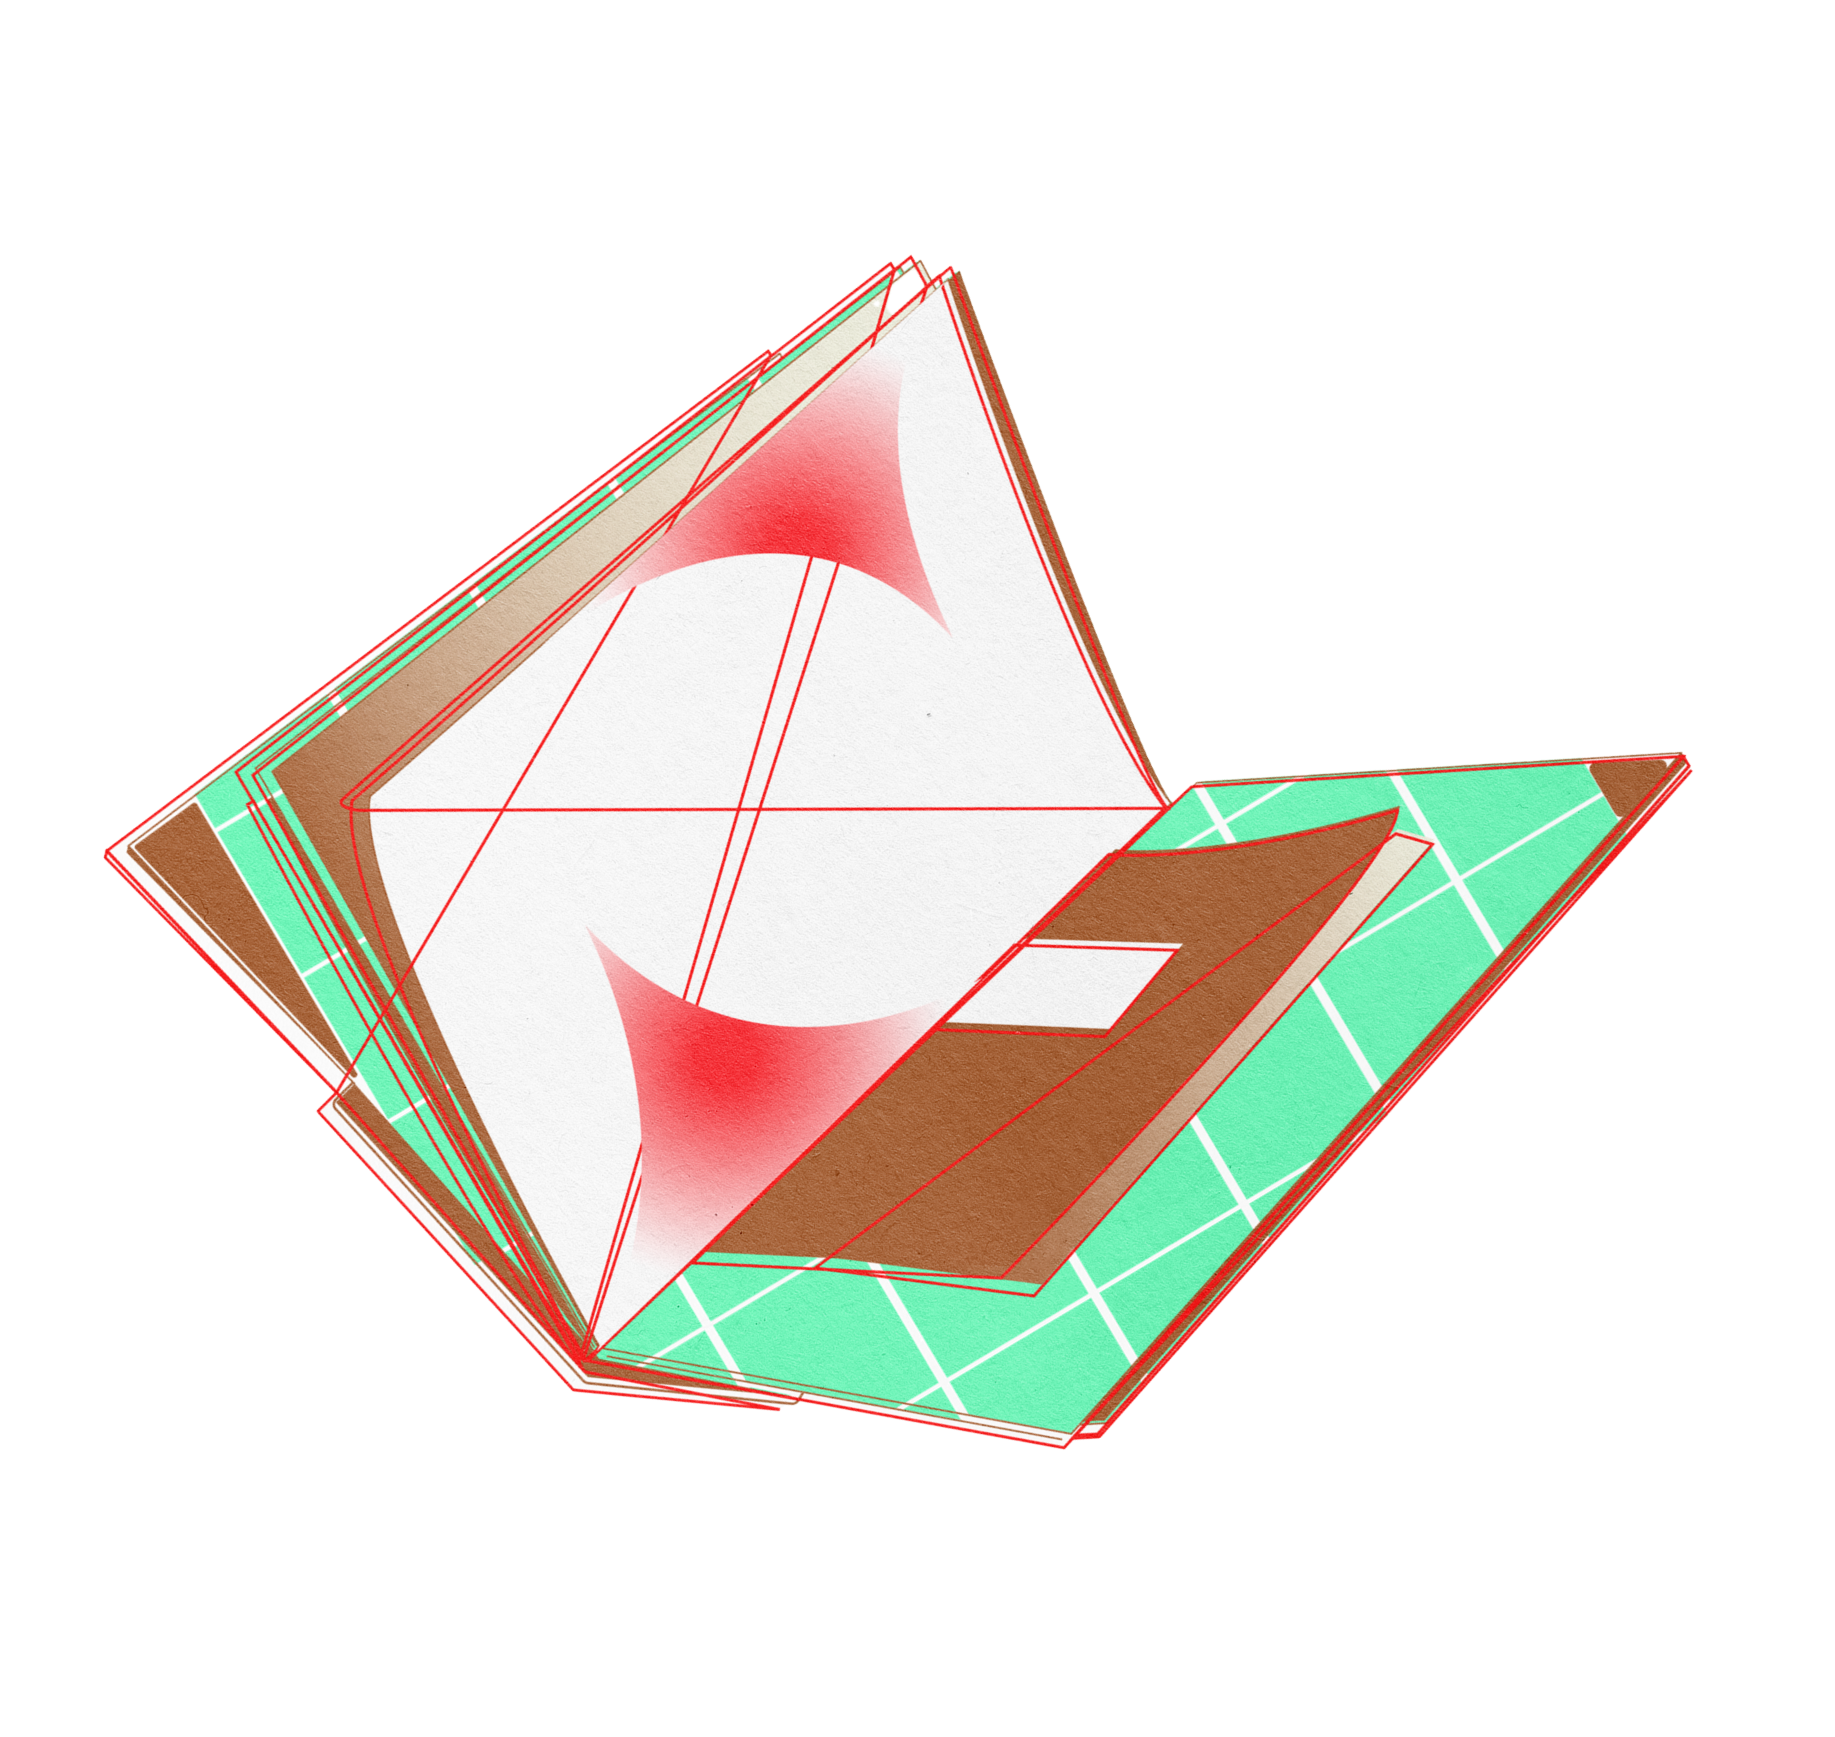
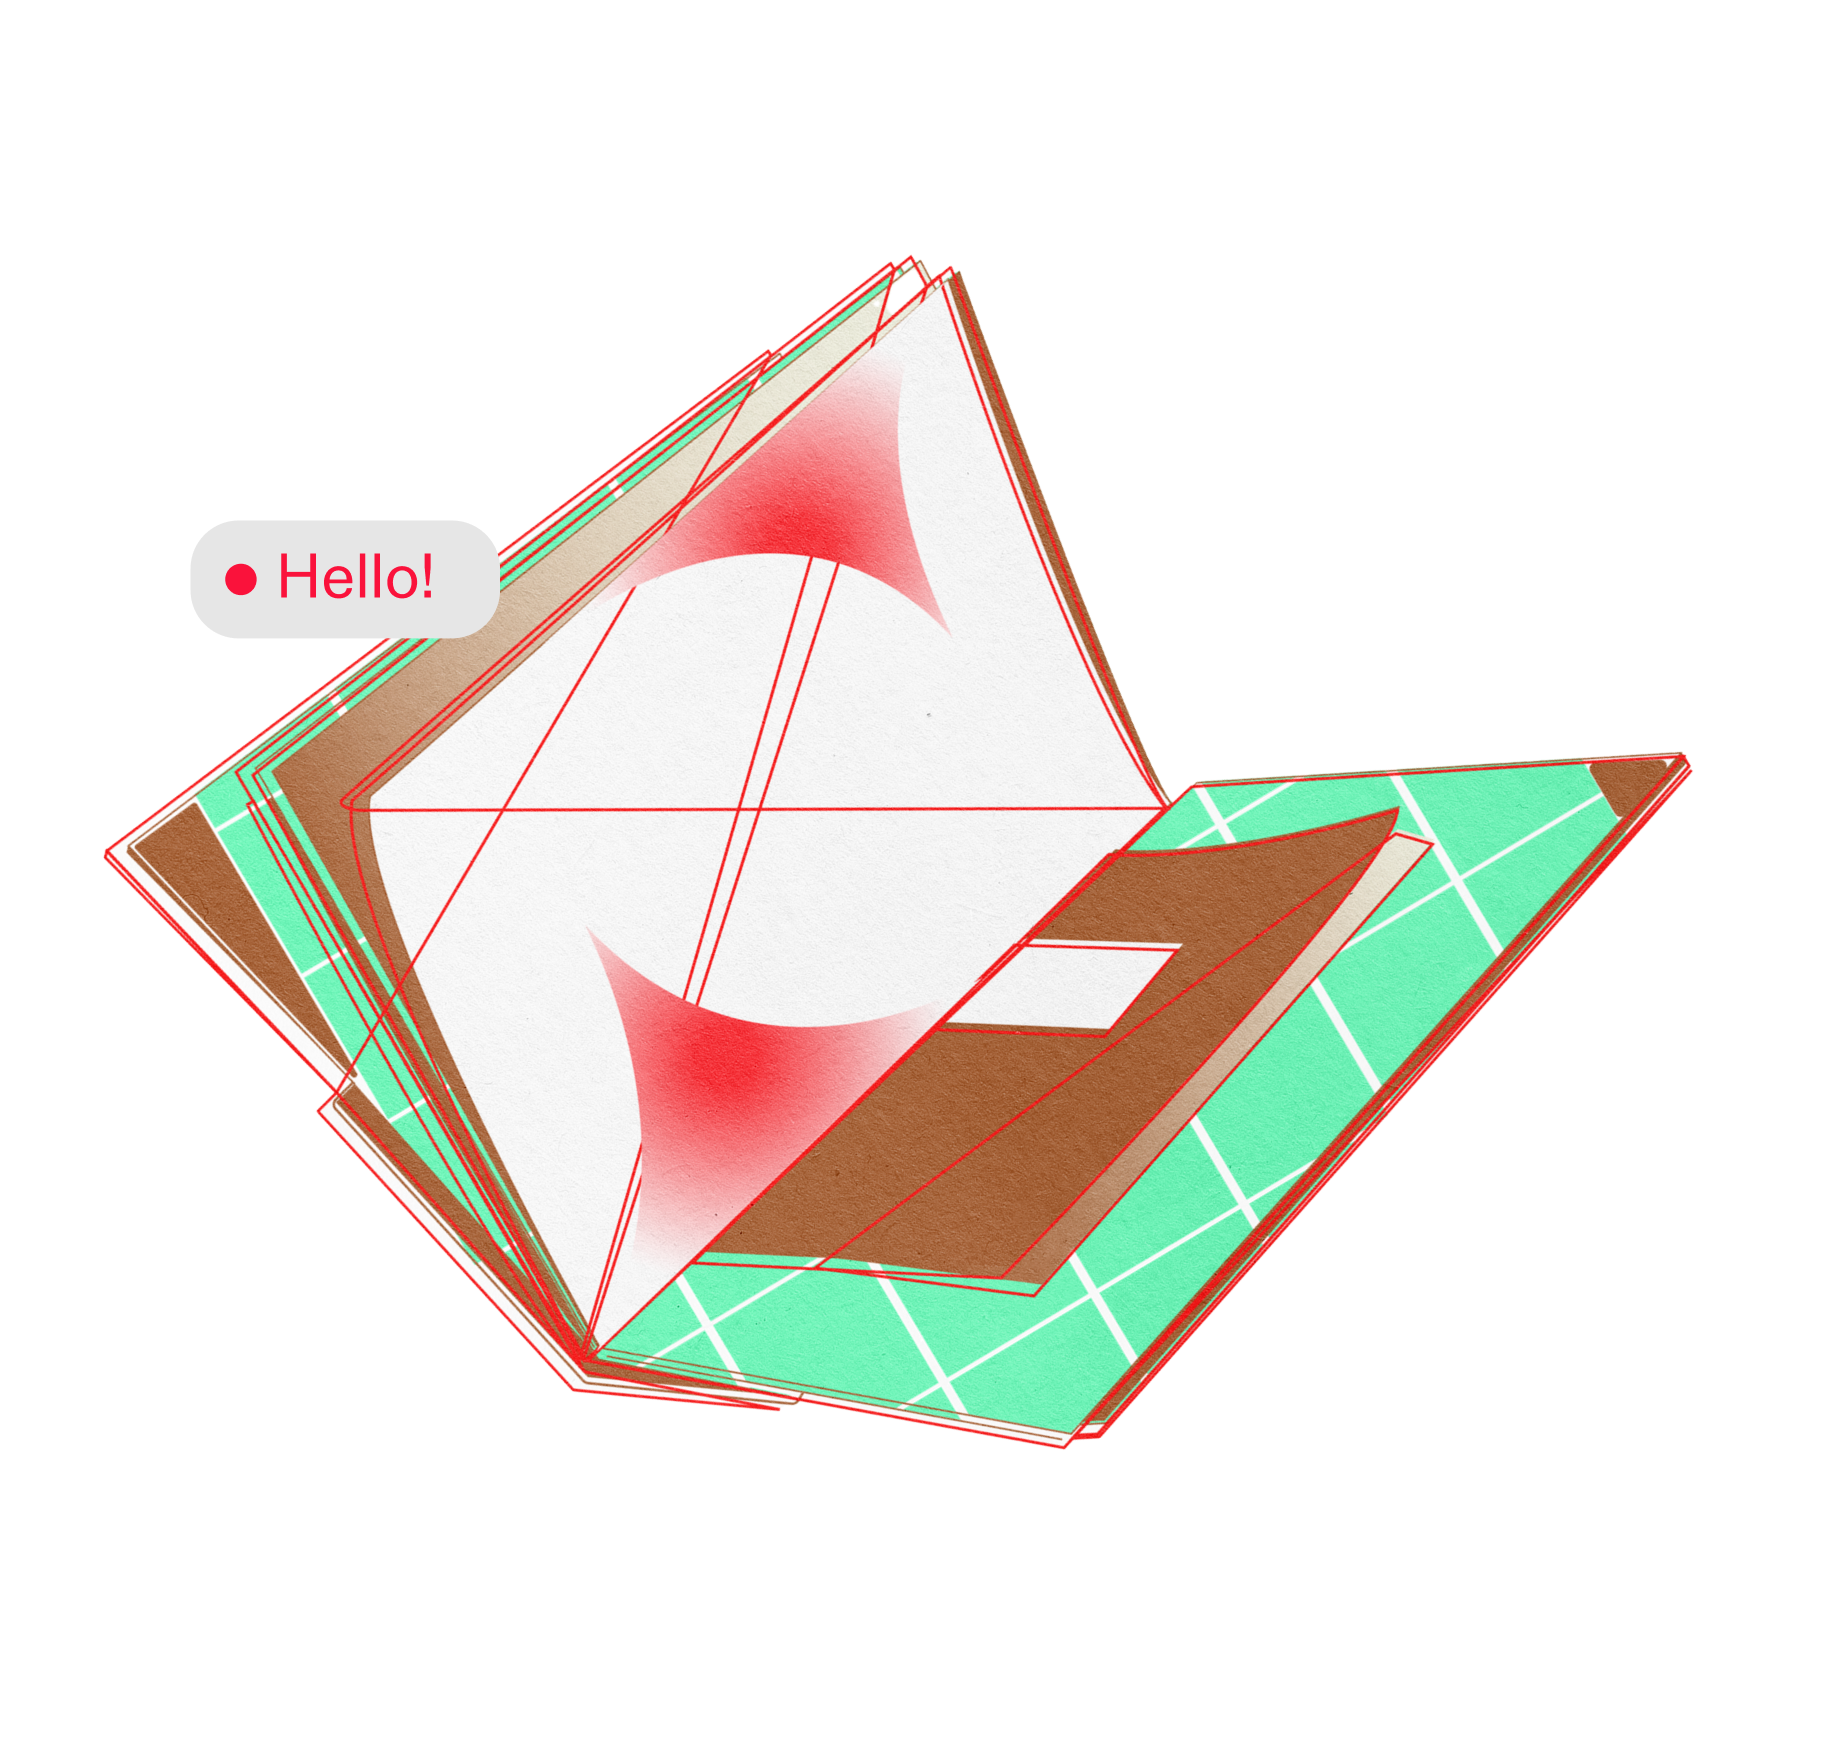
more details

Changed region(s): [[0.0932, 0.2798, 0.2796, 0.3731]]

diff --git a/index.html b/index.html
@@ -31,7 +31,7 @@
         <nav class="navigation-bar">
             <div class="navigation-top">
                 <a id="logo" href="#/">Archiving_Garden</a>
-                <a id="current-page">examples→</a>
+                <a id="current-page"></a>
             </div>
             <ul class="navigation-bottom">
                 <a class="menu-item" href="#/examples" id="item-1" page-name="Examples">01</a>

diff --git a/html/home_page.html b/html/home_page.html
@@ -1,5 +1,6 @@
 <div class="section1">
     <img src="/images/yellow_flower.png" id="home0" class="imagen-rotar" alt="">
+    <img id="poster" src="/images/Group 485.png" alt="">
     <div id="archiveLogo"></div>
     <div id="welcometo">
         <span>Welcome to</span>

diff --git a/css/homepage.css b/css/homepage.css
@@ -9,7 +9,13 @@
     margin-top: 50.51px;
     height: 825px;
 }
-
+#poster{
+    position: absolute;
+width: 208.578px;
+height: 208.578px;
+left: 323.7px;
+top: 473.8px;
+}
 
 #archiveLogo{
     background-image: url('/images/home1.svg');
